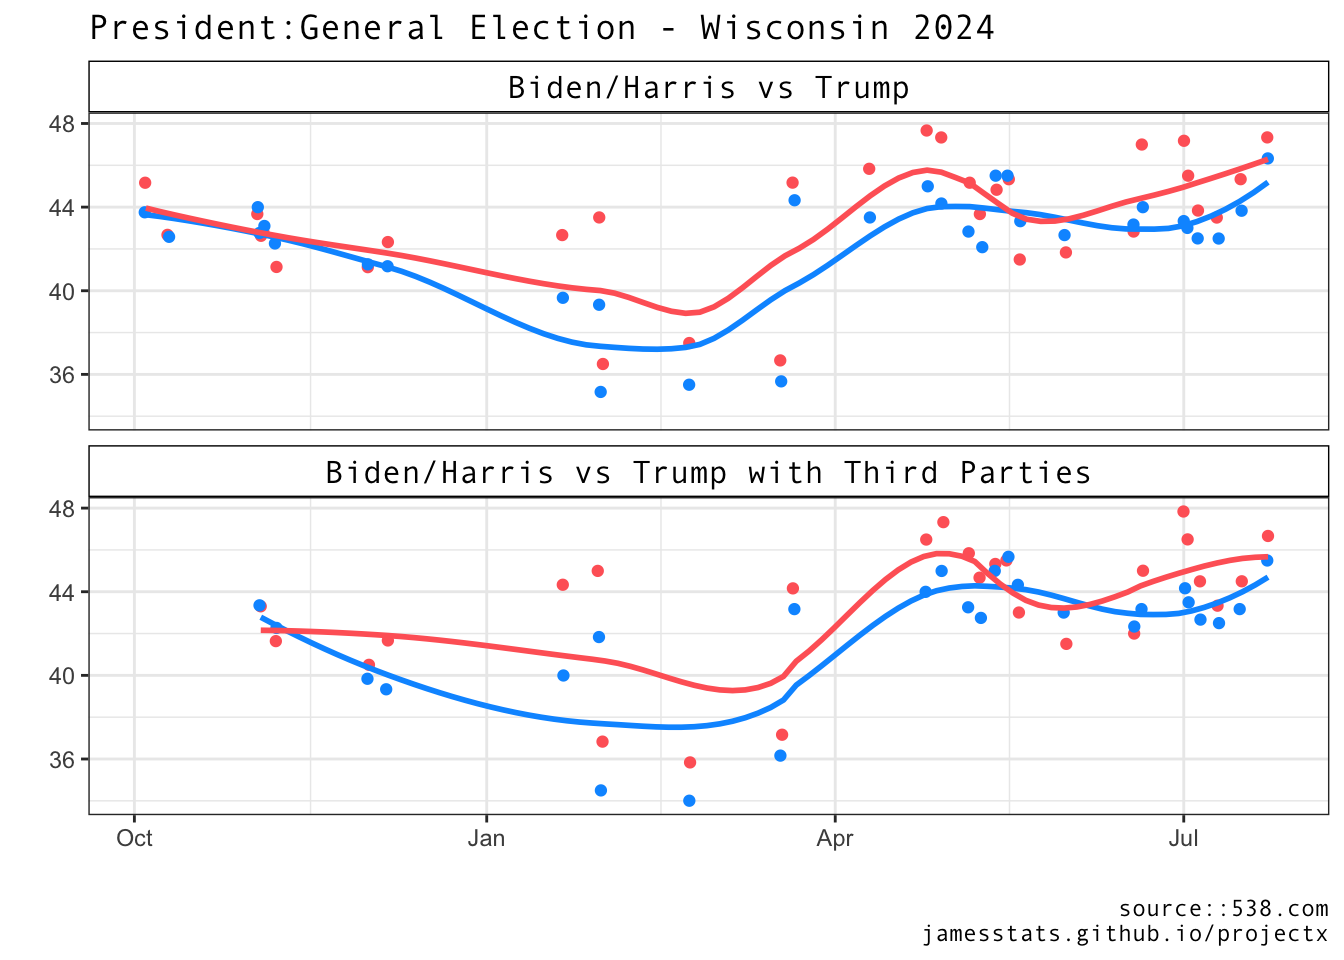
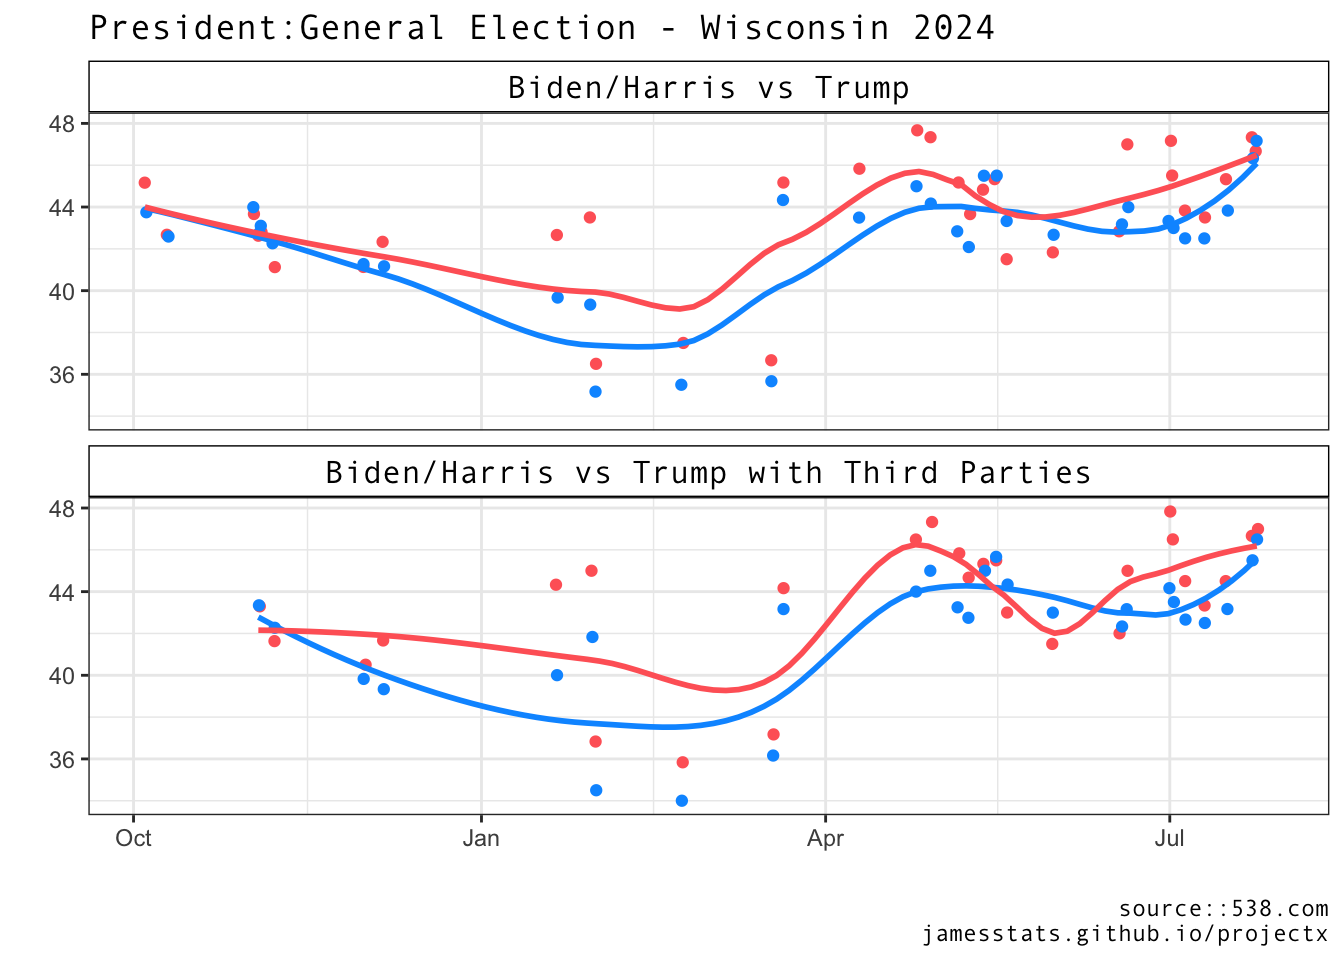
Update

diff --git a/docs/mipawi.html b/docs/mipawi.html
@@ -154,22 +154,22 @@ ul.task-list li input[type="checkbox"] {
 <thead>
 <tr class="header">
 <th>End Date</th>
-<th>Biden</th>
+<th>Harris</th>
 <th>Trump</th>
 <th>Ballot</th>
 </tr>
 </thead>
 <tbody>
 <tr class="odd">
-<td>Jul 23,2024</td>
-<td>46.3%</td>
-<td>47.3%</td>
+<td>Jul 24,2024</td>
+<td><strong>47.1%</strong></td>
+<td>46.7%</td>
 <td><strong>Head-to-Head</strong></td>
 </tr>
 <tr class="even">
-<td>Jul 23,2024</td>
-<td>45.5%</td>
-<td><strong>46.7%</strong></td>
+<td>Jul 24,2024</td>
+<td>46.5%</td>
+<td><strong>47%</strong></td>
 <td>with <strong>Third-Parties</strong></td>
 </tr>
 </tbody>
@@ -198,15 +198,15 @@ ul.task-list li input[type="checkbox"] {
 </thead>
 <tbody>
 <tr class="odd">
-<td>Jul 24,2024</td>
-<td>45.6%</td>
-<td><strong>46.7%</strong></td>
+<td>Jul 25,2024</td>
+<td><strong>46.8</strong>%</td>
+<td>45.2<strong>%</strong></td>
 <td><strong>Head-to-Head</strong></td>
 </tr>
 <tr class="even">
-<td>Jul 24,2024</td>
-<td>45.8%</td>
+<td>Jul 25,2024</td>
 <td><strong>47%</strong></td>
+<td>46.2<strong>%</strong></td>
 <td>with <strong>Third-Parties</strong></td>
 </tr>
 </tbody>
@@ -235,15 +235,15 @@ ul.task-list li input[type="checkbox"] {
 </thead>
 <tbody>
 <tr class="odd">
-<td>Jul 23,2024</td>
-<td>45.8%</td>
-<td><strong>47.2%</strong></td>
+<td>Jul 24,2024</td>
+<td>45.3%</td>
+<td><strong>45.8%</strong></td>
 <td><strong>Head-to-Head</strong></td>
 </tr>
 <tr class="even">
-<td>Jul 23,2024</td>
-<td>44.6%</td>
-<td><strong>47.2%</strong></td>
+<td>Jul 24,2024</td>
+<td>45.5%</td>
+<td><strong>46.5%</strong></td>
 <td>with <strong>Third-Parties</strong></td>
 </tr>
 </tbody>
